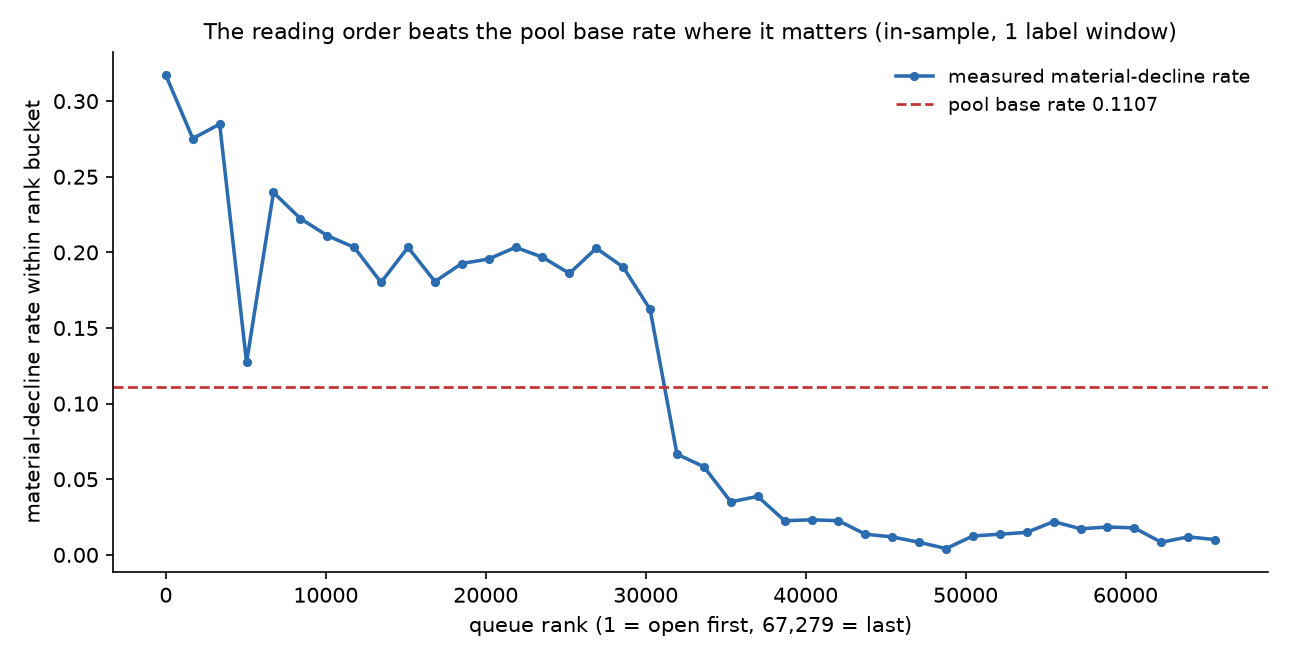
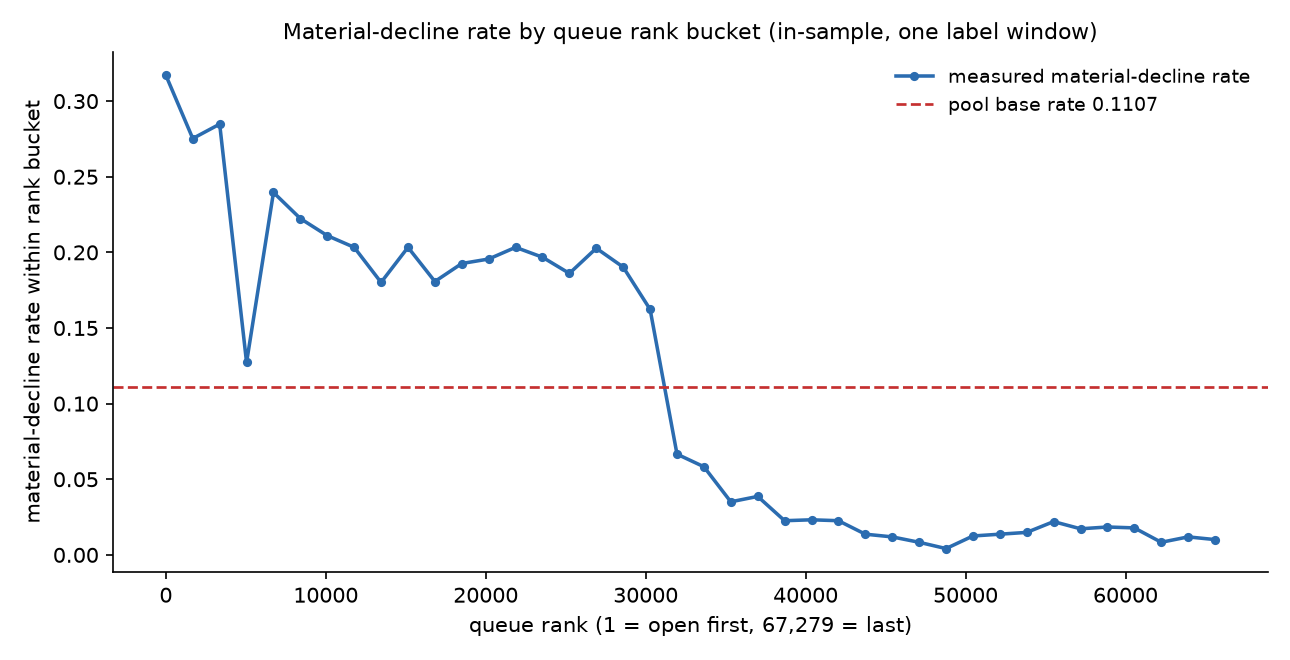
Sharpen paper framing; import action n; set neutral Chart 2 title

Changed region(s): [[0.155, 0.0303, 0.9302, 0.0606]]

diff --git a/paper/index.html b/paper/index.html
@@ -27,7 +27,7 @@
   th, td { text-align:right; padding:7px 10px; border-bottom:1px solid var(--line); }
   th:first-child, td:first-child { text-align:left; }
   thead th { border-bottom:2px solid #cbd5e0; }
-  .win { color:var(--warn); font-weight:600; }
+  .win { font-weight:700; }
   figure { margin:1.4em 0 1.8em; }
   figure img { width:100%; height:auto; border:1px solid var(--line); border-radius:6px;
                background:#fff; }
@@ -58,7 +58,7 @@
         Internship warehouse using a January&ndash;February 2026 feature window and a March 2026 label window,
         where 7,445 pairs are material declines (base rate 0.111). The method fits one degree-2 logistic model on
         five features and evaluates it with a six-fold, client-grouped out-of-fold split, comparing it against a
-        raw-volume sort and a frozen rule on the same rows. The model's out-of-fold precision at 50 is 0.300,
+        raw-volume sort and, with a caveat, a frozen rule on the same rows. The model's out-of-fold precision at 50 is 0.300,
         about 2.7&times; the random floor of 0.111, but a raw sort by prior volume reaches 0.360 at the same depth,
         so the model is presented as a ranking aid rather than a predictive win. The output is a review queue that
         orders pages for human inspection, with limits stated up front: one input carries a measurable signal, the
@@ -115,14 +115,14 @@
       <tbody>
         <tr><td>Pages under 200 prior impressions</td><td>Too little history to call a decline; the pool floor.</td></tr>
         <tr><td>GA4 engagement columns</td><td>Only 8 of 104 clients had GA4 live over the feature window.</td></tr>
-        <tr><td>Last-updated date</td><td>78% of rows carry an update dated after the decision point, so any "days since update" feature would read the future.</td></tr>
+        <tr><td>Last-updated date</td><td>76% of pool rows (78% of frame rows) carry an update dated after the decision point, so any "days since update" feature would read the future.</td></tr>
         <tr><td>90-day query table</td><td>Its window falls entirely after the decision point.</td></tr>
       </tbody>
     </table>
     <p>
       One further effect is reported in full rather than hidden: an inner join on the label month drops 235 rows
       (0.35% of the decided pool) whose pages are gone by March. That makes frame membership mildly
-      outcome-conditioned; the base rate moves by less than 0.0006 across three join readings, so the effect is
+      outcome-conditioned; the base rate moves by less than 0.00015 across three join readings, so the effect is
       minor but real. It is a property of the frame, not a leak of the label into the features.
     </p>
   </section>
@@ -133,8 +133,10 @@
     <p>
       <strong>The label.</strong> A page counts as a material decline when it clears the pool floor (200+ prior
       impressions), its January&ndash;February rate is at least 500 impressions per 30 days, and its March rate
-      drops 20% or more below that prior rate. The label is defined entirely on data that arrives after the
-      decision point; the features never see it.
+      drops 20% or more below that prior rate. The label sets a page's March rate against its
+      January&ndash;February rate; its 500-impression floor and that denominator both come from the feature
+      window, so the label is not fully separate from it. The features themselves use January&ndash;February
+      data only.
     </p>
     <p>
       <strong>The features.</strong> Five inputs are scored: prior volume (log impressions), prior click-through
@@ -184,8 +186,8 @@
       </tbody>
     </table>
     <p>
-      The honest number the queue inherits is 0.300 at precision 50 &mdash; roughly three of the first fifty pages
-      are material declines under this label, about 2.7&times; the random floor. A raw sort by prior volume reaches
+      The honest number the queue inherits is 0.300 at precision 50 &mdash; about 15 of the first fifty (three in
+      ten) are material declines under this label, about 2.7&times; the random floor. A raw sort by prior volume reaches
       0.360 at the same depth with no model at all. That is the central finding, stated plainly: on these rows, the
       model does not beat the obvious baseline.
     </p>
@@ -218,7 +220,7 @@
     </p>
     <figure>
       <img src="assets/queue_decline_rate_by_rank.png" alt="Line chart of measured material-decline rate across the queue, from rank 1 to rank 67,279, with a dashed base-rate line and most of the tail near zero.">
-      <figcaption><strong>Chart 2.</strong> Where the queue is dense: measured material-decline rate by rank bucket (n = 67,279; base rate 0.111). The reading order concentrates declines at the top; most of the tail sits at or below the base rate. In-sample, one label window.</figcaption>
+      <figcaption><strong>Chart 2.</strong> Where the queue is dense: measured material-decline rate by rank bucket (n = 67,279; base rate 0.111). The reading order concentrates declines at the top; most of the tail sits at or below the base rate, and the near-zero tail is largely pages under the label's 500-impression floor. In-sample, one label window.</figcaption>
     </figure>
   </section>
 
@@ -229,7 +231,7 @@
       <strong>One input carries a detectable signal.</strong> Under permutation importance inside held-out client
       blocks, prior volume costs 0.234 of precision at 50 when shuffled. The other four features move the result by
       between &minus;0.018 and +0.035, which is indistinguishable from noise. The model is, in effect, a
-      well-dressed volume sort.
+      volume ranking.
     </p>
     <p>
       <strong>The top of the queue is the largest pages only.</strong> The middle volume band (500&ndash;2,000
@@ -239,7 +241,7 @@
     </p>
     <p>
       <strong>The label contains its own floor.</strong> A material decline requires at least 500 prior
-      impressions, so 40.2% of the pool is a decline by definition of the floor rather than by observation. The
+      impressions, so 40.2% of the pool cannot be a decline by construction. The
       model's only validated input &mdash; prior volume &mdash; is written on the same quantity as that floor, which
       is the deepest reason the ranking tracks volume.
     </p>
@@ -250,10 +252,10 @@
     <p>
       <strong>Outcome-conditioned membership.</strong> The March inner join that removes 235 pages (0.35%) makes the
       frame slightly dependent on the outcome, as described in the Data section. The effect on the base rate is
-      below 0.0006, but it is a real (if minor) distortion of the population.
+      below 0.00015, but it is a real (if minor) distortion of the population.
     </p>
     <p>
-      <strong>Excluded fields.</strong> The last-updated date is excluded because 78% of rows carry post-decision
+      <strong>Excluded fields.</strong> The last-updated date is excluded because 76% of pool rows (78% of frame rows) carry post-decision
       updates; GA4 columns are excluded because only 8 of 104 clients had GA4 live over the window. No causal or
       search-engine claim is made anywhere on this page: the score says a page <em>looks like</em> a decline under
       one label, not why, and no intervention was run to test whether acting on it helps.
@@ -270,19 +272,24 @@
       notification &mdash; is triggered from this score.
     </p>
     <table>
-      <caption><strong>Table 3.</strong> The three actions and their in-sample measured decline rate on the queue (n = 67,279). These rates describe the labelled window, not the result of acting.</caption>
-      <thead><tr><th>Action</th><th>Who</th><th>Measured decline rate</th></tr></thead>
+      <caption><strong>Table 3.</strong> The three actions, their in-sample measured decline rate on the queue, and the number of pages each covers (n = 67,279). These rates describe the labelled window, not the result of acting.</caption>
+      <thead><tr><th>Action</th><th>Who</th><th>Measured decline rate</th><th>n</th></tr></thead>
       <tbody>
-        <tr><td>Refresh</td><td>Top 50 and already sliding</td><td>0.750</td></tr>
-        <tr><td>Protect</td><td>Top 50 and holding</td><td>0.176</td></tr>
-        <tr><td>Monitor</td><td>Everything else</td><td>0.110</td></tr>
+        <tr><td>Refresh</td><td>Top 50 and already sliding</td><td>0.750</td><td>16</td></tr>
+        <tr><td>Protect</td><td>Top 50 and holding</td><td>0.176</td><td>34</td></tr>
+        <tr><td>Monitor</td><td>Everything else</td><td>0.110</td><td>67,229</td></tr>
       </tbody>
     </table>
     <p>
-      In practice a reviewer opens the sixteen <em>refresh</em> pages first, checks the thirty-four
-      <em>protect</em> pages for early wobble, and leaves the remaining 67,229 pages on a watch list. Reason codes
-      name only the two supported facts (volume band, and holding versus sliding), so the queue never explains
-      itself with a feature that the permutation test found to be noise.
+      In practice a reviewer opens the sixteen <em>refresh</em> pages first; the thirty-four <em>protect</em>
+      pages are holding, so no action is taken on them this week, and the remaining 67,229 pages stay on a watch
+      list. Reason codes name only the two supported facts (volume band, and holding versus sliding), so the queue
+      never explains itself with a feature that the permutation test found to be noise.
+    </p>
+    <p>
+      One caution on the refresh rate: the sliding flag and the label are both computed from the same
+      January&ndash;February data, so a steeper prior drop is read on the same window the label reads. Part of the
+      0.750 is mechanical rather than a separate signal.
     </p>
     <p>
       Two actions are deliberately withheld. Automatic expansion and pruning of pages are not offered, because
@@ -303,13 +310,13 @@
       <caption>Notebooks and what each contributes.</caption>
       <thead><tr><th>Notebook</th><th>Contribution</th></tr></thead>
       <tbody>
-        <tr><td><code>w01_research_question.ipynb</code></td><td>The question and the lane.</td></tr>
-        <tr><td><code>w03_data_contract.ipynb</code></td><td>The data contract: tables, windows, exclusions.</td></tr>
-        <tr><td><code>w04_baseline_score.ipynb</code></td><td>The frozen rule baseline.</td></tr>
-        <tr><td><code>w05_model.ipynb</code></td><td>The model and the client-grouped holdout.</td></tr>
-        <tr><td><code>w06_validation_audit.ipynb</code></td><td>The honest out-of-fold evaluation and leakage checks.</td></tr>
-        <tr><td><code>w07_action_playbook.ipynb</code></td><td>The ranked queue and the action playbook.</td></tr>
-        <tr><td><code>capstone.ipynb</code></td><td>Reads the records and mirrors this page; runs offline.</td></tr>
+        <tr><td><a href="https://github.com/Divyanshu10045/flyrank-assignments/blob/main/work/notebooks/w01_research_question.ipynb"><code>w01_research_question.ipynb</code></a></td><td>The question and the lane.</td></tr>
+        <tr><td><a href="https://github.com/Divyanshu10045/flyrank-assignments/blob/main/work/notebooks/w03_data_contract.ipynb"><code>w03_data_contract.ipynb</code></a></td><td>The data contract: tables, windows, exclusions.</td></tr>
+        <tr><td><a href="https://github.com/Divyanshu10045/flyrank-assignments/blob/main/work/notebooks/w04_baseline_score.ipynb"><code>w04_baseline_score.ipynb</code></a></td><td>The frozen rule baseline.</td></tr>
+        <tr><td><a href="https://github.com/Divyanshu10045/flyrank-assignments/blob/main/work/notebooks/w05_model.ipynb"><code>w05_model.ipynb</code></a></td><td>The model and the client-grouped holdout.</td></tr>
+        <tr><td><a href="https://github.com/Divyanshu10045/flyrank-assignments/blob/main/work/notebooks/w06_validation_audit.ipynb"><code>w06_validation_audit.ipynb</code></a></td><td>The honest out-of-fold evaluation and leakage checks.</td></tr>
+        <tr><td><a href="https://github.com/Divyanshu10045/flyrank-assignments/blob/main/work/notebooks/w07_action_playbook.ipynb"><code>w07_action_playbook.ipynb</code></a></td><td>The ranked queue and the action playbook.</td></tr>
+        <tr><td><a href="https://github.com/Divyanshu10045/flyrank-assignments/blob/main/work/notebooks/capstone.ipynb"><code>capstone.ipynb</code></a></td><td>Reads the records and mirrors this page; runs offline.</td></tr>
       </tbody>
     </table>
     <p>
